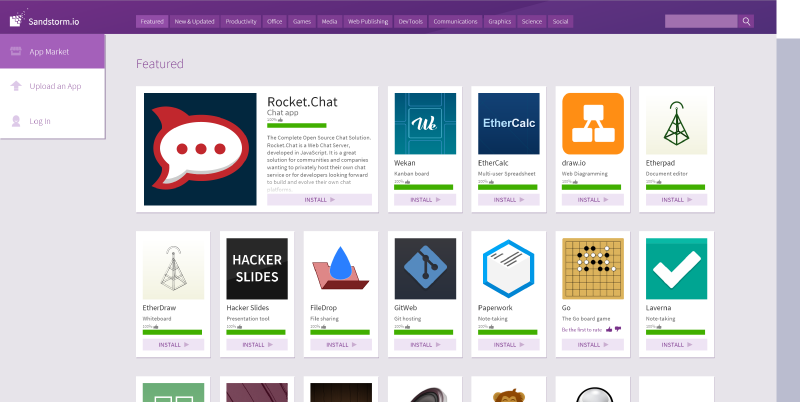
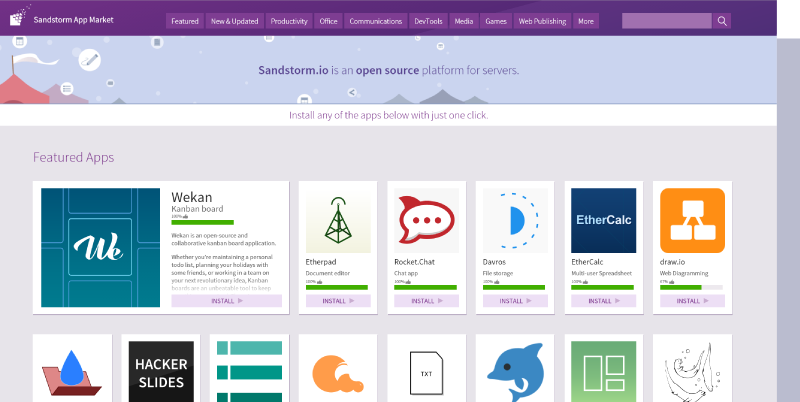
Linking some text & fixing typos. Updated App Market screenshot.

diff --git a/features.html b/features.html
@@ -43,14 +43,14 @@ var appCount = "Dozens of";
       <li class="choose-host">
         <h3><strong>Choose your host</strong></h3>
         <p>You decide where your data lives.
-        <p>Don't want to set up a server? Use ours at Sandstorm Oasis, or try one of our hosting partners located all over the world.
-        <p>Want more control? Run your own Sandstorm server on your own hardware. If you like, we'll set you up with free dynamic DNS and HTTPS certificates on a subdomain of Sandcats.io, or if you prefer you can set up Sandstorm on your own domain.
+        <p>Don't want to set up a server? Use ours at <a href="https://oasis.sandstorm.io/">Sandstorm Oasis</a>, or try one of our hosting partners located all over the world.
+        <p>Want more control? Run your own Sandstorm server <a href="/get#self-hosting">on your own hardware</a>. If you like, we'll set you up with free dynamic DNS and HTTPS certificates on a subdomain of Sandcats.io, or if you prefer you can set up Sandstorm on your own domain.
         <p>If you change your mind later, you can move your apps and data between hosts at any time.
 
       <li class="apps-growing">
         <h3><strong><script type="text/javascript">document.write(appCount)</script> apps and growing</strong></h3>
-        <p>New apps are being added to the Sandstorm app market every week covering a wide range of use cases.
-        <p>We have apps for document editing, chat, task management, file storage, email, music playing, code hosting, forums, games, and more. Check them out on the Sandstorm App Market.
+        <p>New apps are being added to the Sandstorm App Market every week covering a wide range of use cases.
+        <p>We have apps for document editing, chat, task management, file storage, email, music playing, code hosting, forums, games, and more. Check them out on the <a href="https://apps.sandstorm.io/">Sandstorm App Market</a>.
 
       <li class="single-sign-on">
         <h3><strong>Single Sign-on</strong></h3>
@@ -77,7 +77,7 @@ var appCount = "Dozens of";
         <li class="protection">
           <h3><strong>Protection against app bugs</strong></h3>
           <p>
-            Sandstorm implement a wide range of measures designed to protect against security bugs in apps. Most bugs that would be serious security problems on other platforms either don't matter at all on Sandstorm or have drastically reduced impact.
+            Sandstorm implements a wide range of measures designed to <a href="https://docs.sandstorm.io/en/latest/using/security-non-events/">protect against security bugs in apps</a>. Most bugs that would be serious security problems on other platforms either don't matter at all on Sandstorm or have drastically reduced impact.
             <br>
             <br>
             <a href="https://docs.sandstorm.io/en/latest/developing/security-practices/" target="_blank">Read our docs to learn how it works.</a>

diff --git a/index.html b/index.html
@@ -94,7 +94,7 @@ title: Sandstorm
     </header>
 
     <section class="hosting">
-      <p><strong>You choose where your data lives:</strong> You can use Sandstorm in the cloud on a variety of hosting services, or you can install it on your own machines. You can even even move between these options at any time. No matter where you decide to run Sandstorm, the apps are the same.
+      <p><strong>You choose where your data lives:</strong> You can use Sandstorm in the cloud on a variety of hosting services, or you can <a href="/get#self-hosting">install it on your own machines.</a> You can even even move between these options at any time. No matter where you decide to run Sandstorm, the apps are the same.
     </section>
 
     <section class="walled-gardens">
@@ -110,7 +110,7 @@ title: Sandstorm
 
   <section class="individual">
     <h3>Individuals</h3>
-    <p>Sandstorm makes it safe &amp; easy to use indie web apps. It adds security hardening to protect your privacy. Apps never disappear, and you can add your own. Run your own server or use our hosting.
+    <p>Sandstorm makes it safe &amp; easy to use indie web apps. It adds security hardening to protect your privacy. Apps never disappear, and you can add your own. Run your <a href="/get#self-hosting">own server</a> or use <a href="/get#managed-hosting">our hosting.</a>
     <p><a class="start" href="/features">Learn More</a>
     <div>
     </div>
